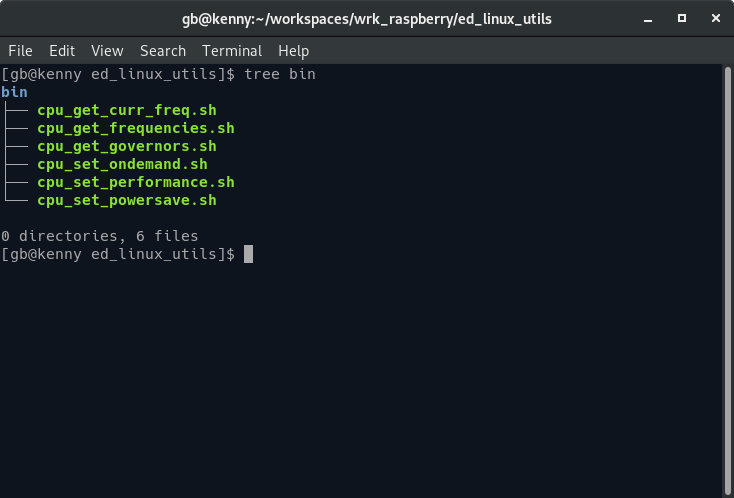
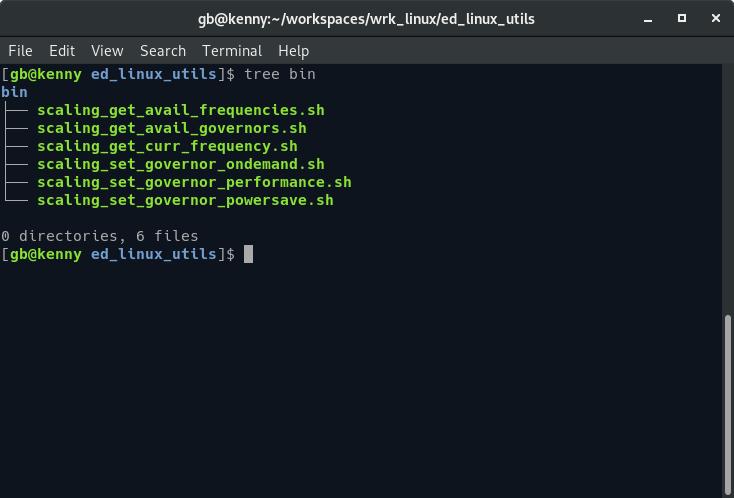
Renamed scripts related to cpu frequency scaling.

diff --git a/README.md b/README.md
@@ -4,41 +4,47 @@
 This package contains a set of utilities for use with the Linux operating system.
 
 
+# License
+
+This project is licensed under the 
+[MIT](https://tldrlegal.com/license/mit-license) License.
+
+
 # Scripts
 
 The following scripts are located in the `bin` directory:
 
 <img src="doc/utilities.png" alt="utilities" width="650"/>
 
-List the current frequencies for all of the CPU's in the system.
-```sh
-cpu_get_curr_freq.sh
-```
-
 List the available scaling frequencies for all of the CPU's in the system.
 ```sh
-cpu_get_frequencies.sh
+scaling_get_avail_frequencies.sh
 ```
 
 List the available frequency scaling governors for all of the CPU's in the system.
 ```sh
-cpu_get_governors.sh
+scaling_get_avail_governors.sh
+```
+
+List the current frequencies for all of the CPU's in the system.
+```sh
+scaling_get_curr_frequency.sh
 ```
 
 Set the frequency scaling governors for all of the CPU's to `ondemand` so that 
 the frequency of the CPU's is changed dynamical according to current load.
 ```sh
-cpu_set_ondemand.sh
+scaling_set_governor_ondemand.sh
 ```
 
 Set the frequency scaling governors for all of the CPU's to `performance` so that 
 the CPU's run at the maximum frequency.
 ```sh
-cpu_set_performance.sh
+scaling_set_governor_performance.sh
 ```
 
 Set the frequency scaling governors for all of the CPU's to `powersave` so that 
 the CPU's run at the minimum frequency.
 ```sh
-cpu_set_powersave.sh
+scaling_set_governor_powersave.sh
 ```
